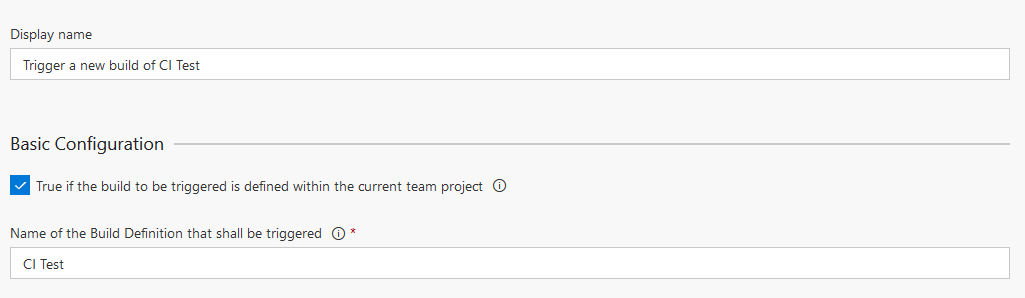
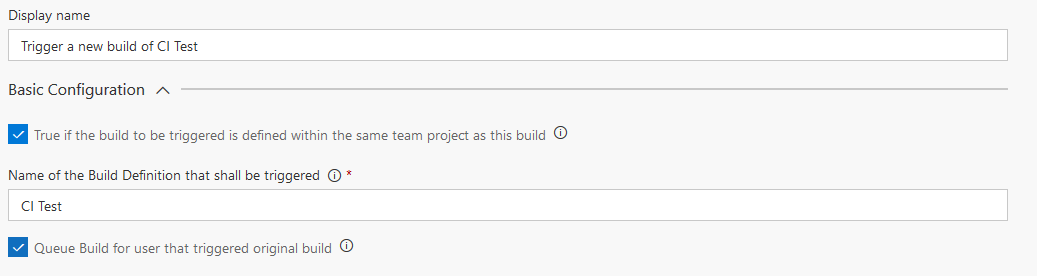
Added option to specify for which user the build should be run. Bumped version to 1.7. Updated overview for new option and explanation when the build will be triggered for which user.

diff --git a/BuildTasks/overview.md b/BuildTasks/overview.md
@@ -20,6 +20,15 @@ If your build would be in another Team Project, uncheck the checkbox and fill in
   
 ![Custom Team Project Configuration](https://raw.githubusercontent.com/huserben/TfsExtensions/master/BuildTasks/customteamprojectconfiguration.PNG)  
   
+Furthermore you can select whether the subsequent builds that are triggered should be run as it would be requested by the same user that triggered the original build or not. This can be useful if you have any kind of query that is based on the name, for example if you want to filter for builds triggered by you or if you have setup email alerts.  
+If you do not select this option, it depends on the method of authentication (see below) for whom the builds will be triggered:  
+| Authentication Method  | Requested By |
+| ------------- | ------------- |
+| Default Credentials  | Build Service User  |
+| OAuth Token  | Build Service User (if System.AccessToken is used), otherwise owner of the Token  |
+| Personal Access Token  | User that created that Token  |
+| Basic Authentication  | Specified User  |
+  
 ## Authentication Options
 In this section can be set how you authenticate against your TFS. 
 

diff --git a/BuildTasks/ReleaseNotes.md b/BuildTasks/ReleaseNotes.md
@@ -1,5 +1,12 @@
 # Release Notes
 
+## Version 1.7
+- Added option that you can choose if the builds that are triggered are run now for the same user that triggered the first build. This means if a CI build is kicked off by a check-in from a specific user, the triggered builds will be queued for that user as well. This enables that queries based on the user name will work properly (e.g. customized dashboards, email-alerts etc.) - based on feedback from [Dependent Build Timestamp Not Updated ](https://github.com/huserben/TfsExtensions/issues/6)
+
+### Acknowledgements
+Thank you goes to all of the following users, who contributed feedback, bug reports, code submissions, testing, and reviews which helped in this release.  
+- [**@bdwellborn**](https://github.com/bdwellborn)  
+
 ## Version 1.6
 - SourceBranch is now included when triggering a build 
 - Fixed issue that exception was thrown when Blocking Build Condition was enabled with the current build selected, but no additional builds selected [(see Issue)](https://github.com/huserben/TfsExtensions/issues/4)
